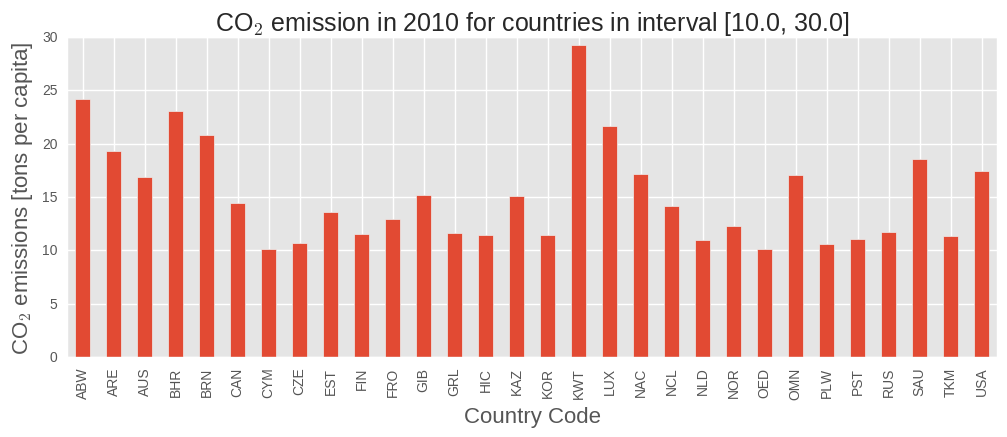
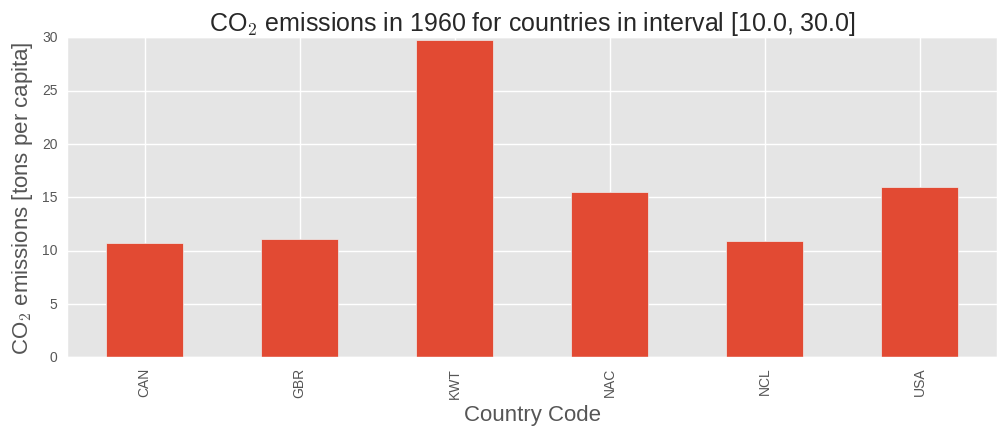
Added future prediction, README.txt and made some final touches

diff --git a/assignment6/templates/temperature_CO2_plotter.html b/assignment6/templates/temperature_CO2_plotter.html
@@ -51,7 +51,8 @@ Example&nbsp;usage:<br>
 &nbsp;&nbsp;&nbsp;&nbsp;climate&nbsp;=&nbsp;<a href="#Climate">Climate</a>("temperature.csv",&nbsp;"co2.csv",&nbsp;"CO2_by_country.csv")<br>
 &nbsp;&nbsp;&nbsp;&nbsp;climate.<a href="#Climate-plot_temperature">plot_temperature</a>("January",&nbsp;1816,&nbsp;2012,&nbsp;-5.4,&nbsp;1.0)<br>
 &nbsp;&nbsp;&nbsp;&nbsp;climate.<a href="#Climate-plot_CO2">plot_CO2</a>(1751,&nbsp;2012,&nbsp;0,&nbsp;10000)<br>
-&nbsp;&nbsp;&nbsp;&nbsp;climate.<a href="#Climate-plot_CO2_by_country">plot_CO2_by_country</a>(2010,&nbsp;10.0,&nbsp;30.0)<br>&nbsp;</tt></td></tr>
+&nbsp;&nbsp;&nbsp;&nbsp;climate.<a href="#Climate-plot_CO2_by_country">plot_CO2_by_country</a>(2010,&nbsp;10.0,&nbsp;30.0)<br>
+&nbsp;&nbsp;&nbsp;&nbsp;climate.<a href="#Climate-plot_future">plot_future</a>("March",&nbsp;1816,&nbsp;2050)<br>&nbsp;</tt></td></tr>
 <tr><td>&nbsp;</td>
 <td width="100%">Methods defined here:<br>
 <dl><dt><a name="Climate-__init__"><strong>__init__</strong></a>(self, temperature_filename, CO2_filename, CO2_by_country_filename)</dt><dd><tt>Constructor&nbsp;function&nbsp;that&nbsp;stores&nbsp;input&nbsp;filenames&nbsp;as&nbsp;well&nbsp;as&nbsp;doing<br>
@@ -80,6 +81,15 @@ Args:<br>
 &nbsp;&nbsp;&nbsp;&nbsp;year&nbsp;(int)&nbsp;&nbsp;&nbsp;&nbsp;&nbsp;&nbsp;&nbsp;&nbsp;&nbsp;&nbsp;&nbsp;&nbsp;&nbsp;&nbsp;:&nbsp;What&nbsp;year&nbsp;to&nbsp;plot&nbsp;CO2&nbsp;emissions&nbsp;for<br>
 &nbsp;&nbsp;&nbsp;&nbsp;lower_threshold&nbsp;(float)&nbsp;:&nbsp;Countries&nbsp;above&nbsp;this&nbsp;emission&nbsp;threshold&nbsp;is&nbsp;plotted<br>
 &nbsp;&nbsp;&nbsp;&nbsp;upper_threshold&nbsp;(float)&nbsp;:&nbsp;Countries&nbsp;below&nbsp;this&nbsp;emission&nbsp;threshold&nbsp;is&nbsp;plotted</tt></dd></dl>
+
+<dl><dt><a name="Climate-plot_future"><strong>plot_future</strong></a>(self, month, start_year, end_year)</dt><dd><tt>Function&nbsp;that&nbsp;plots&nbsp;the&nbsp;historic&nbsp;temperetaure&nbsp;as&nbsp;well&nbsp;as&nbsp;the&nbsp;predicited<br>
+temperature&nbsp;for&nbsp;the&nbsp;future&nbsp;using&nbsp;a&nbsp;totally&nbsp;unrealistic&nbsp;correlation&nbsp;between<br>
+CO2&nbsp;emission&nbsp;rates&nbsp;and&nbsp;the&nbsp;evolution&nbsp;of&nbsp;the&nbsp;temperature.<br>
+&nbsp;<br>
+Args:<br>
+&nbsp;&nbsp;&nbsp;&nbsp;month&nbsp;(str)&nbsp;&nbsp;&nbsp;&nbsp;&nbsp;&nbsp;:&nbsp;String&nbsp;of&nbsp;month&nbsp;to&nbsp;plot&nbsp;temperature&nbsp;for<br>
+&nbsp;&nbsp;&nbsp;&nbsp;start_year&nbsp;(int)&nbsp;:&nbsp;First&nbsp;year&nbsp;to&nbsp;plot&nbsp;temperature&nbsp;for<br>
+&nbsp;&nbsp;&nbsp;&nbsp;end_year&nbsp;(int)&nbsp;&nbsp;&nbsp;:&nbsp;Final&nbsp;(in&nbsp;future)&nbsp;year&nbsp;to&nbsp;plot&nbsp;temperature</tt></dd></dl>
 
 <dl><dt><a name="Climate-plot_temperature"><strong>plot_temperature</strong></a>(self, month, start_year, end_year, y_min, y_max)</dt><dd><tt>Method&nbsp;that&nbsp;imports&nbsp;data&nbsp;from&nbsp;the&nbsp;self.<strong>temperature_filename</strong>&nbsp;csv-file<br>
 (using&nbsp;pandas&nbsp;module)&nbsp;and&nbsp;then,&nbsp;based&nbsp;on&nbsp;input&nbsp;arguments&nbsp;(i.e.&nbsp;correct<br>

diff --git a/assignment6/templates/future_page.html b/assignment6/templates/future_page.html
@@ -1,0 +1,26 @@
+<!DOCTYPE html>
+<h1>Visualization of future predicition of temperature (very silly prediction)</h1>
+<h3>Enter parameters in the right panels. Go back to <a href="/">main page</a> for more plots or to <a href="/help">help</a> to see documentation for the souce code</h3>
+
+<img src="/static/temperature_future.png" vspace=10></img>
+
+<div style="position: absolute; top: 170px; left: 1050px; width: 320px; height: 470px; background-color: lightgrey;"">
+    <form action="/future" method="POST">
+        <br>&nbsp;&nbsp;<b>Choose month &emsp; Start/end year</b><br><br>
+        &nbsp;&nbsp;<input type="radio" name="month" value="January">January &emsp; &emsp; &emsp; &nbsp;
+        &nbsp;&nbsp;<input type="text" name="start year" value="1816" maxlength="4" size="4"><br>
+        &nbsp;&nbsp;<input type="radio" name="month" value="February" checked>February &emsp; &emsp; &nbsp; &nbsp;
+        &nbsp;&nbsp;<input type="text" name="end year" value="2150" maxlength="4" size="4"><br>
+        &nbsp;&nbsp;<input type="radio" name="month" value="March">March<br>
+        &nbsp;&nbsp;<input type="radio" name="month" value="April">April<br>
+        &nbsp;&nbsp;<input type="radio" name="month" value="May">May<br>
+        &nbsp;&nbsp;<input type="radio" name="month" value="June">June<br>
+        &nbsp;&nbsp;<input type="radio" name="month" value="July">July<br>
+        &nbsp;&nbsp;<input type="radio" name="month" value="August">August<br>
+        &nbsp;&nbsp;<input type="radio" name="month" value="September">September<br>
+        &nbsp;&nbsp;<input type="radio" name="month" value="October">October<br>
+        &nbsp;&nbsp;<input type="radio" name="month" value="November">November<br>
+        &nbsp;&nbsp;<input type="radio" name="month" value="December">December<br><br>
+        &nbsp;&nbsp;<input type="submit" value="Submit" style="width: 200px; height: 100px">
+    </form>
+</div>

diff --git a/assignment6/templates/visualization_page.html b/assignment6/templates/visualization_page.html
@@ -1,6 +1,6 @@
 <!DOCTYPE html>
 <h1>Visualization of temperature and CO2 emission data</h1>
-<h3>Enter parameters in the right panels. Visit <a href="/help">help</a> to see documentation for the souce code</h3>
+<h3>Enter parameters in the right panels. Visit <a href="/future">future page</a> for temperature prediction of the future or <a href="/help">help</a> for documentation.</h3>
 
 <img src="/static/temperature.png" vspace=10></img>
 
@@ -39,7 +39,7 @@
         &nbsp;&nbsp;<input type="text" name="ltreshold" value="10" maxlength="4" size="4"><br>
         &nbsp;&nbsp;<input type="text" name="utreshold" value="30" maxlength="4" size="4"><br><br>
         &nbsp;&nbsp;<b>Select year for analysis</b><br><br>
-        &nbsp;&nbsp;<input type="text" name="year" value="2010" maxlength="4" size="4"><br><br>
+        &nbsp;&nbsp;<input type="text" name="year" value="2012" maxlength="4" size="4"><br><br>
         &nbsp;&nbsp;<input type="submit" value="Submit" style="width: 200px; height: 100px">
     </form>
 </div>

diff --git a/assignment6/temperature_CO2_plotter.py b/assignment6/temperature_CO2_plotter.py
@@ -15,6 +15,7 @@ class Climate(object):
         climate.plot_temperature("January", 1816, 2012, -5.4, 1.0)
         climate.plot_CO2(1751, 2012, 0, 10000)
         climate.plot_CO2_by_country(2010, 10.0, 30.0)
+        climate.plot_future("March", 1816, 2050)
     """
     def __init__(self, temperature_filename, CO2_filename, CO2_by_country_filename):
         """
@@ -111,7 +112,7 @@ class Climate(object):
         CO2_data = CO2_data[CO2_data[str(year)] <= upper_treshold]    # Filter out above treshold
 
         CO2_data.loc[:, str(year)].plot(kind = "bar")                   # Bar chart for a year
-        plt.title("CO$_2$ emission in {} for countries in interval [{}, {}]".format(
+        plt.title("CO$_2$ emissions in {} for countries in interval [{}, {}]".format(
             year, lower_treshold, upper_treshold), fontsize = 18)       # Generate title
         plt.ylabel("CO$_2$ emissions [tons per capita]", fontsize = 16) #Label on y-axis
 
@@ -132,18 +133,19 @@ class Climate(object):
         temp_data = pd.read_csv(self.temperature_filename, index_col = "Year")
         CO2_data = pd.read_csv(self.CO2_filename, index_col = "Year")
 
-        temp_data = temp_data.loc[start_year:, month]               # Extract relevant month temp
-        CO2_data = CO2_data.loc[start_year:, CO2_data.columns[0]]   # Ecstract all CO2 data
+        temp_data = temp_data.loc[start_year:, month]                # Extract relevant month temp
+        CO2_data = CO2_data.loc[start_year:, CO2_data.columns[0]]    # Ecstract all CO2 data
 
-        CO2_rate = CO2_data.index[-1] / CO2_data.index[-2]  # Constant CO2 increase rate
-        prev_temp = temp_data[temp_data.index[-1]]          # First prev_temp is in 2012
+        newest_year = temp_data.index[-1]
+        CO2_rate = CO2_data[newest_year] / CO2_data[newest_year - 1] # Constant CO2 increase rate
+        prev_temp = temp_data[newest_year]                           # First prev_temp is in 2012
 
-        future_temp = np.zeros((end_year - temp_data.index[-1]), dtype = np.float)  # Hold future
-        future_years = np.zeros((end_year - temp_data.index[-1]), dtype = np.int)   # Hold future
+        future_temp = np.zeros((end_year - newest_year), dtype = np.float)  # Hold future temp
+        future_years = np.zeros((end_year - newest_year), dtype = np.int)   # Hold future years
 
-        for i in range(end_year - 2012):
-            new_temp = prev_temp + abs(prev_temp) * (1.01 * CO2_rate - 1)  # Temp next year
-            future_years[i] = temp_data.index[-1] + (i + 1)                # Next year number
+        for i in range(end_year - newest_year):
+            new_temp = prev_temp + abs(prev_temp) * (CO2_rate - 1)         # Temp next year
+            future_years[i] = newest_year + (i + 1)                        # Next year number
             future_temp[i] = new_temp                                      # Store new temp
             prev_temp = new_temp                                           # update prev_temp
 
@@ -154,19 +156,25 @@ class Climate(object):
 
         # Plot historic data as well as predicted data and a separator.
         plt.Figure()     # New figure panel
+        plt.clf()        # Clear plot in case something there
         plt.hold("on")   # Keep plotting in the same panel
-        plt.plot(temp_data.loc[start_year:2012], linewidth = 2,
+        plt.plot(temp_data.loc[start_year:newest_year], linewidth = 2,
             color = (129.0 / 255, 63.0 / 255, 200.0 / 255))
-        plt.plot(temp_data.loc[2012:], linewidth = 2, color = "r")
-        plt.plot([2012, 2012], [min(temp_data.loc[:, 0]), max(temp_data.loc[:, 0])],
-            linewidth = 2, color = "black")
-        plt.axis([start_year, end_year, min(temp_data.loc[:, 0]), max(temp_data.loc[:, 0])]) 
+        plt.plot(temp_data.loc[newest_year:], linewidth = 2, color = "r")
+        plt.plot([newest_year, newest_year], [min(temp_data.loc[:, 0]),
+            max(temp_data.loc[:, 0])], linewidth = 2, linestyle = "--", color = "black")
+        plt.axis([start_year, end_year, min(temp_data.loc[:, 0]), max(temp_data.loc[:, 0])])
+        plt.title("Temperature in {} for {}-{}, anything past {} is a prediction".format(
+            month, start_year, end_year, newest_year), fontsize = 18)
+        plt.xlabel("Year", fontsize = 16)
+        plt.ylabel("Temperature [$^{\circ}C$]", fontsize = 16)
+        plt.savefig(os.path.join("static", "temperature_future.png"), bbox_inches = "tight")
 
 if (__name__ == "__main__"):
     climate = Climate("temperature.csv", "co2.csv", "CO2_by_country.csv")
-    #climate.plot_temperature("January", 1816, 2012, -5.4, 1.0)
-    #climate.plot_CO2(1751, 2012, 0, 10000)
-    #climate.plot_CO2_by_country(2010, 10.0, 30.0)
-    climate.plot_future("March", 1950, 2050, -5.4, 1.0)
+    climate.plot_temperature("January", 1816, 2012, -5.4, 1.0)
+    climate.plot_CO2(1751, 2012, 0, 10000)
+    climate.plot_CO2_by_country(2010, 10.0, 30.0)
+    climate.plot_future("March", 1816, 2050)
     plt.show()
 

diff --git a/assignment6/web_visualization.py b/assignment6/web_visualization.py
@@ -11,12 +11,13 @@ os.system("mv temperature_CO2_plotter.html templates/")  # Move HTML-file into t
 
 default_temp_params = ["January", 1816, 2012, -5.4, 1.0]    # Define default params for temp
 default_co2_params = [1751, 2012, 0, 10000]                 # Define default params for CO2
-default_co2_by_country_params = [2010, 10.0, 30.0]  # Define default params for CO2-by-country
+default_co2_by_country_params = [2012, 10.0, 30.0]  # Define default params for CO2-by-country
 
 climate = Climate("temperature.csv", "co2.csv", "CO2_by_country.csv")   # Initiate Climate object
 climate.plot_temperature(*default_temp_params)                          # Generate default plot
 climate.plot_CO2(*default_co2_params)                                   # Generate default plot
 climate.plot_CO2_by_country(*default_co2_by_country_params)             # Generate default plot
+climate.plot_future("February", 1816, 2150)                             # Generate default plot
 
 @app.route("/", methods = ["GET", "POST"])
 def visualize_data():
@@ -49,8 +50,22 @@ def visualize_data():
 
     return render_template("visualization_page.html")   # Display HTML-page with new plots
 
+@app.route("/future", methods = ["GET", "POST"])
+def viusalize_future_predicition():
+    """
+    Function that, based on user submitted parameters from the web page
+    future_page.html, generates new plot using the Climate class and
+    furthermore updates the web page with these new plots as the user wants.
+    """
+    if (request.method == "POST"):
+        climate.plot_future(request.form["month"],
+            int(request.form["start year"]), int(request.form["end year"]))   # Generate new plot
+    
+    return render_template("future_page.html")
+
 @app.route("/help")
 def show_help():
+    """Functio that renders the help HTML-file generated above with pydoc"""
     return render_template("temperature_CO2_plotter.html")
 
 app.run(debug = True)   # Run server and initiate web page
